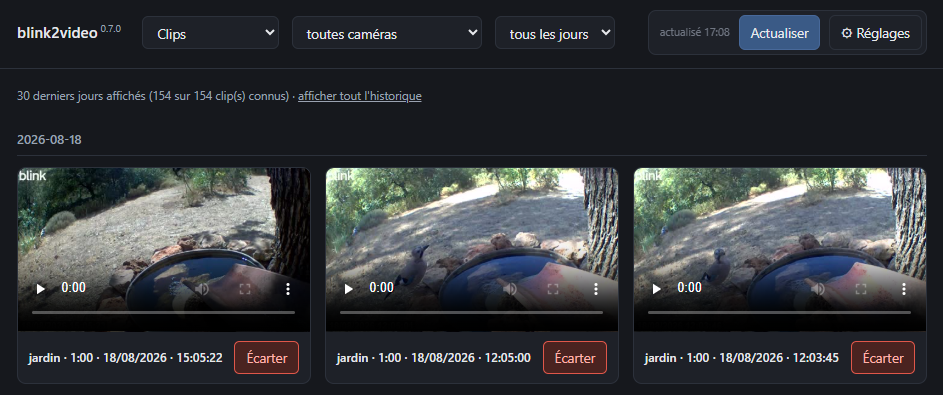
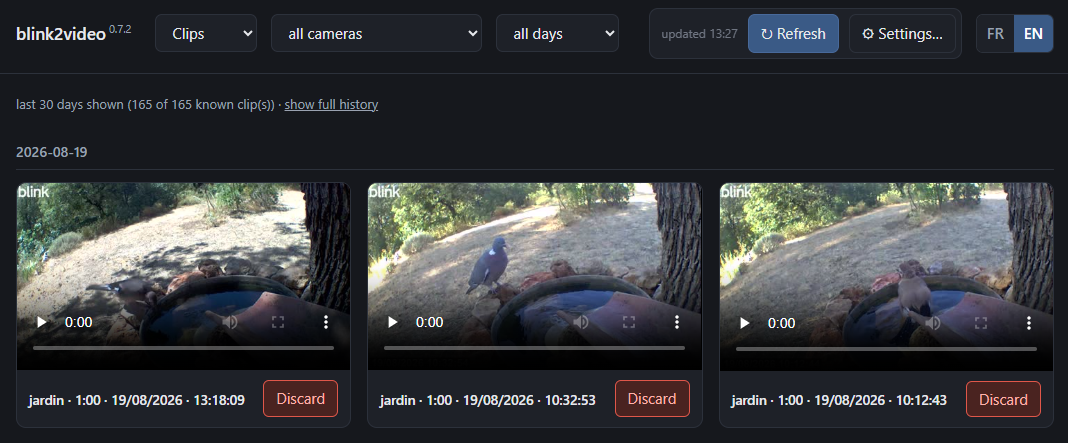
docs: captures d'ecran en anglais et en francais, direct floute
Screenshots mis a jour en anglais (interface refondue) ; ajout des
equivalents francais (serve0.fr.PNG, serve_direct.fr.PNG,
settings.fr.PNG) references depuis README.fr.md. Les vignettes de la
vue Direct sont floutees dans les deux langues : elles montrent la
propriete reelle de l'utilisateur.

diff --git a/README.fr.md b/README.fr.md
@@ -39,20 +39,20 @@ Tout tourne sur votre machine. Rien n'est envoyé ailleurs.
 
 ## Captures d'écran
 
-![L'onglet Direct](Screenshots/serve_direct.PNG)
+![L'onglet Direct](Screenshots/serve_direct.fr.PNG)
 
 Le Direct : une tuile par caméra, sa dernière vignette, l'armement du système et
 de chaque caméra, la batterie, la température, le signal et la date du relevé.
 Une caméra hors ligne continue d'annoncer ses dernières valeurs connues, et
 l'interface dit de quand elles datent.
 
-![L'onglet Clips](Screenshots/serve0.PNG)
+![L'onglet Clips](Screenshots/serve0.fr.PNG)
 
 Les clips du plus récent au plus ancien, filtrables par caméra et par jour.
 Chaque carte donne la caméra, la durée, la date et le modèle, et le bouton
 « Écarter » retire le clip de toutes les vidéos assemblées.
 
-![Le panneau de réglages](Screenshots/settings.PNG)
+![Le panneau de réglages](Screenshots/settings.fr.PNG)
 
 Les réglages, derrière l'icône engrenage : démarrage automatique à
 l'ouverture de session, actualisation automatique de la page, cadence de
